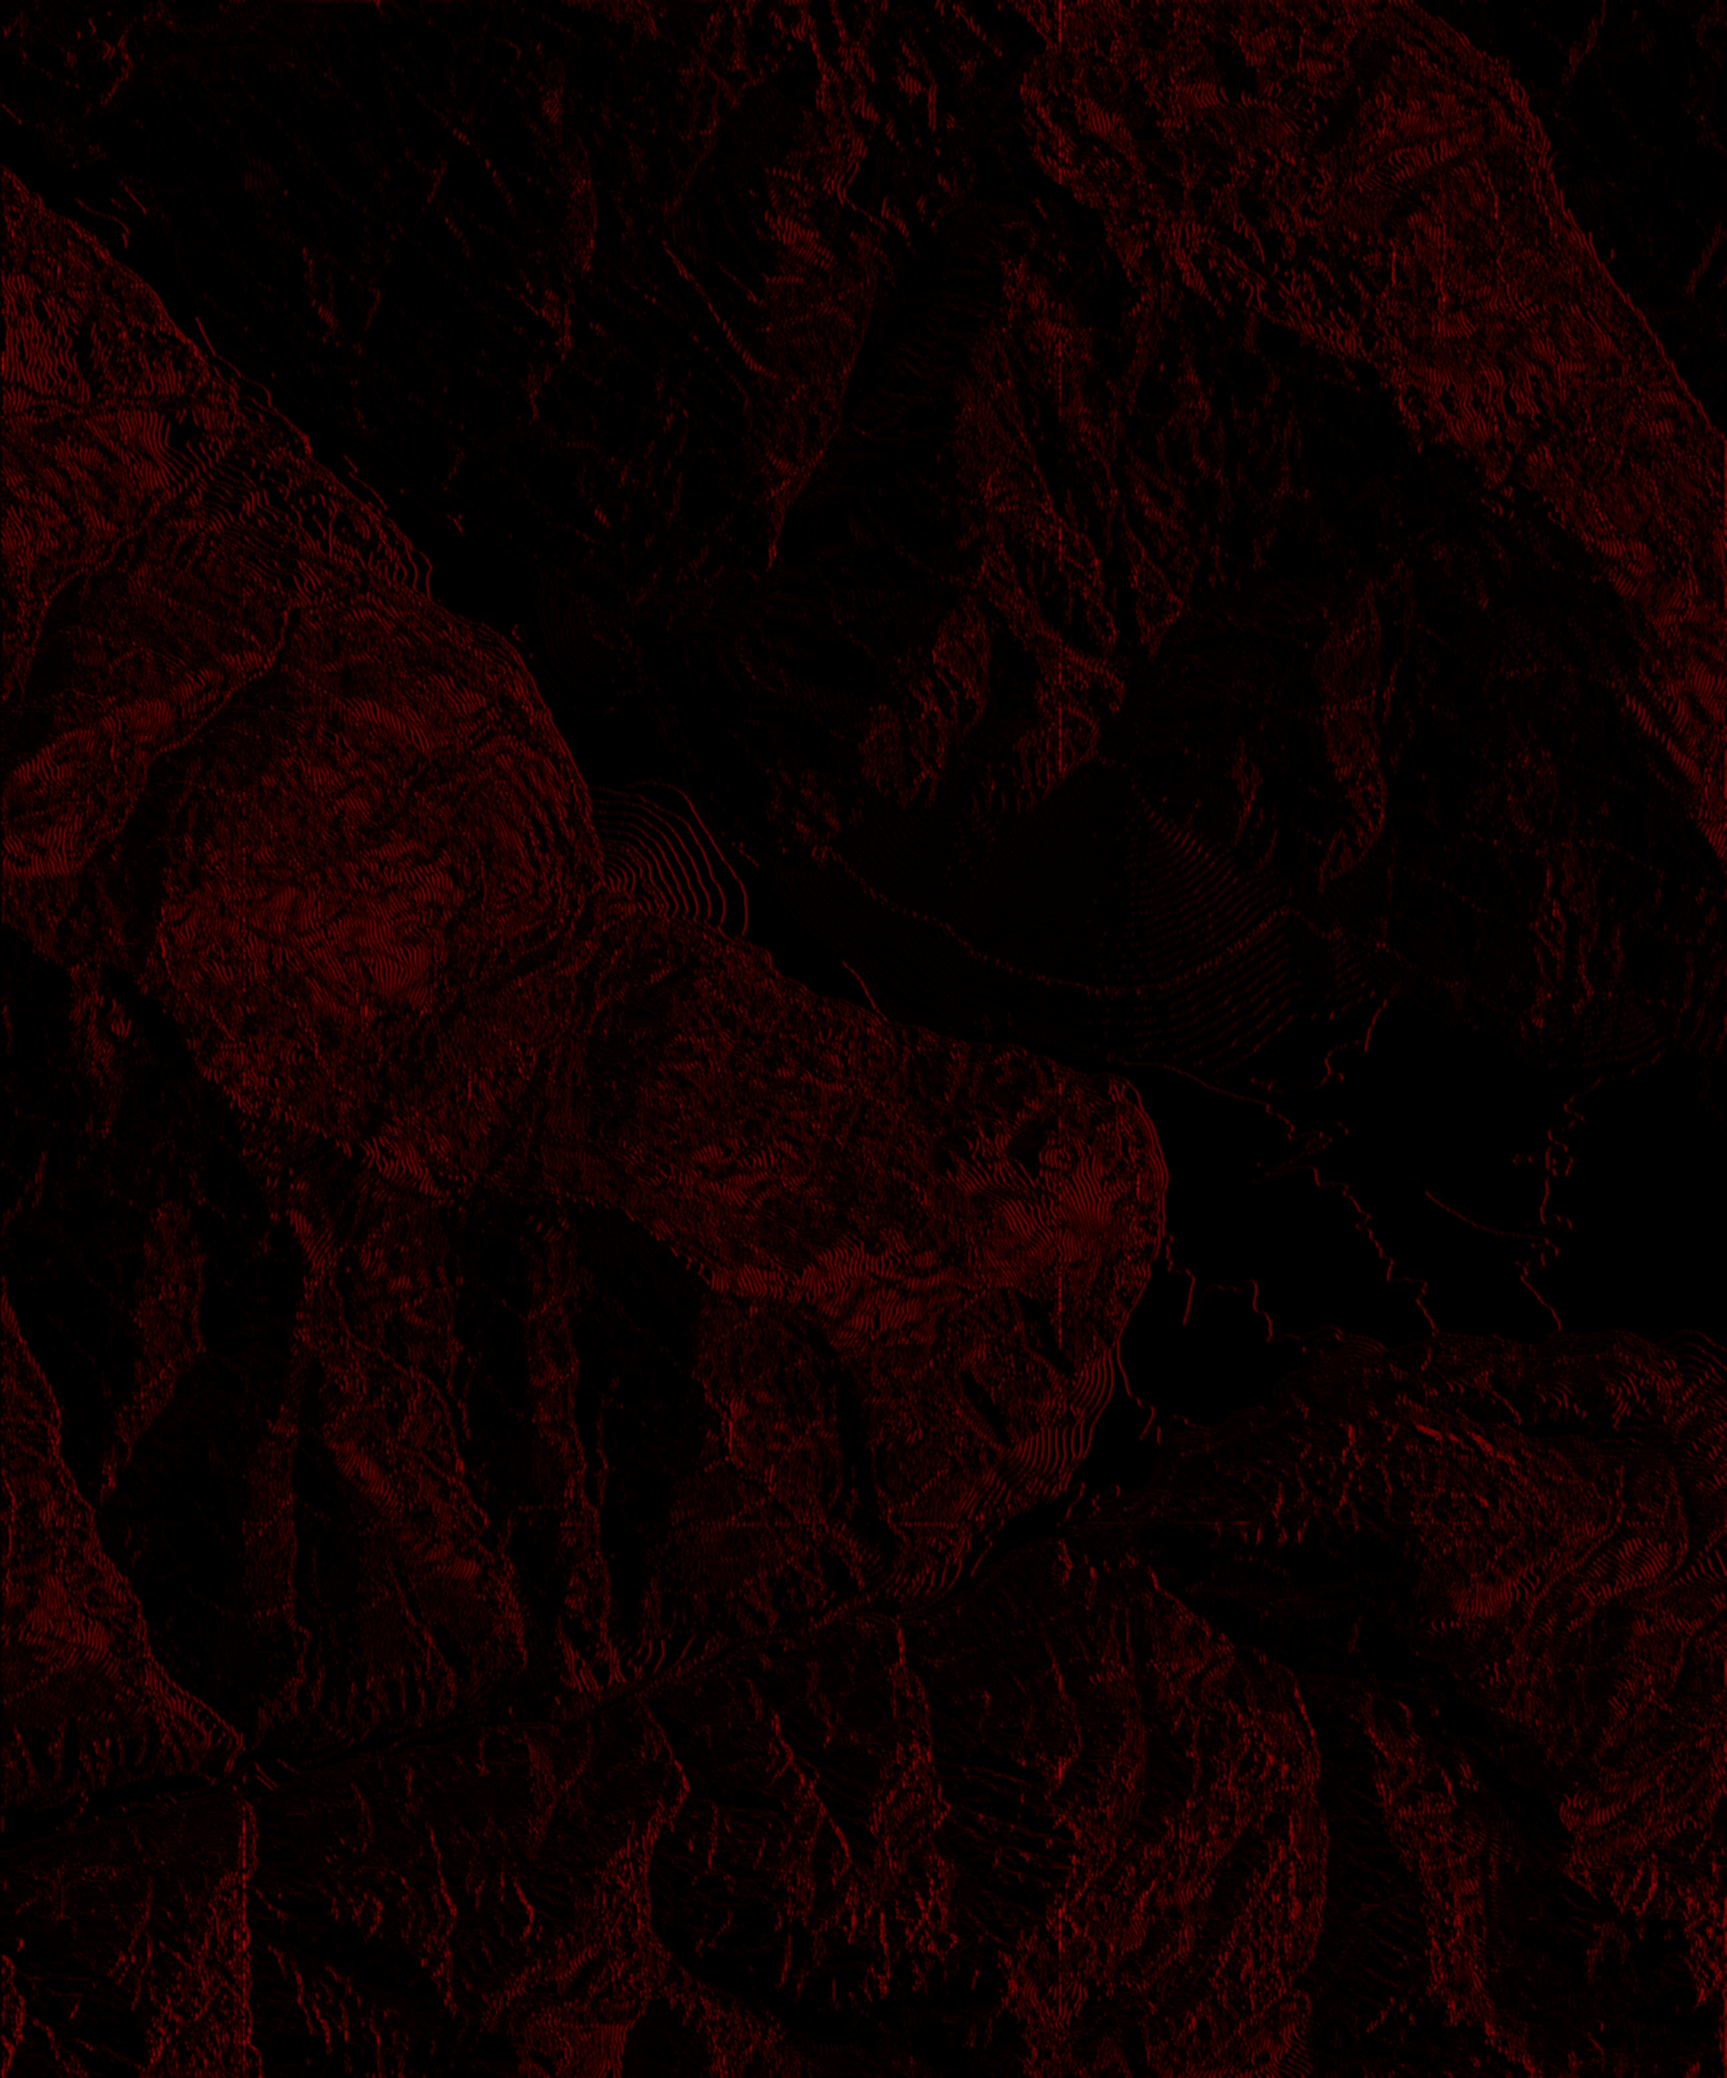
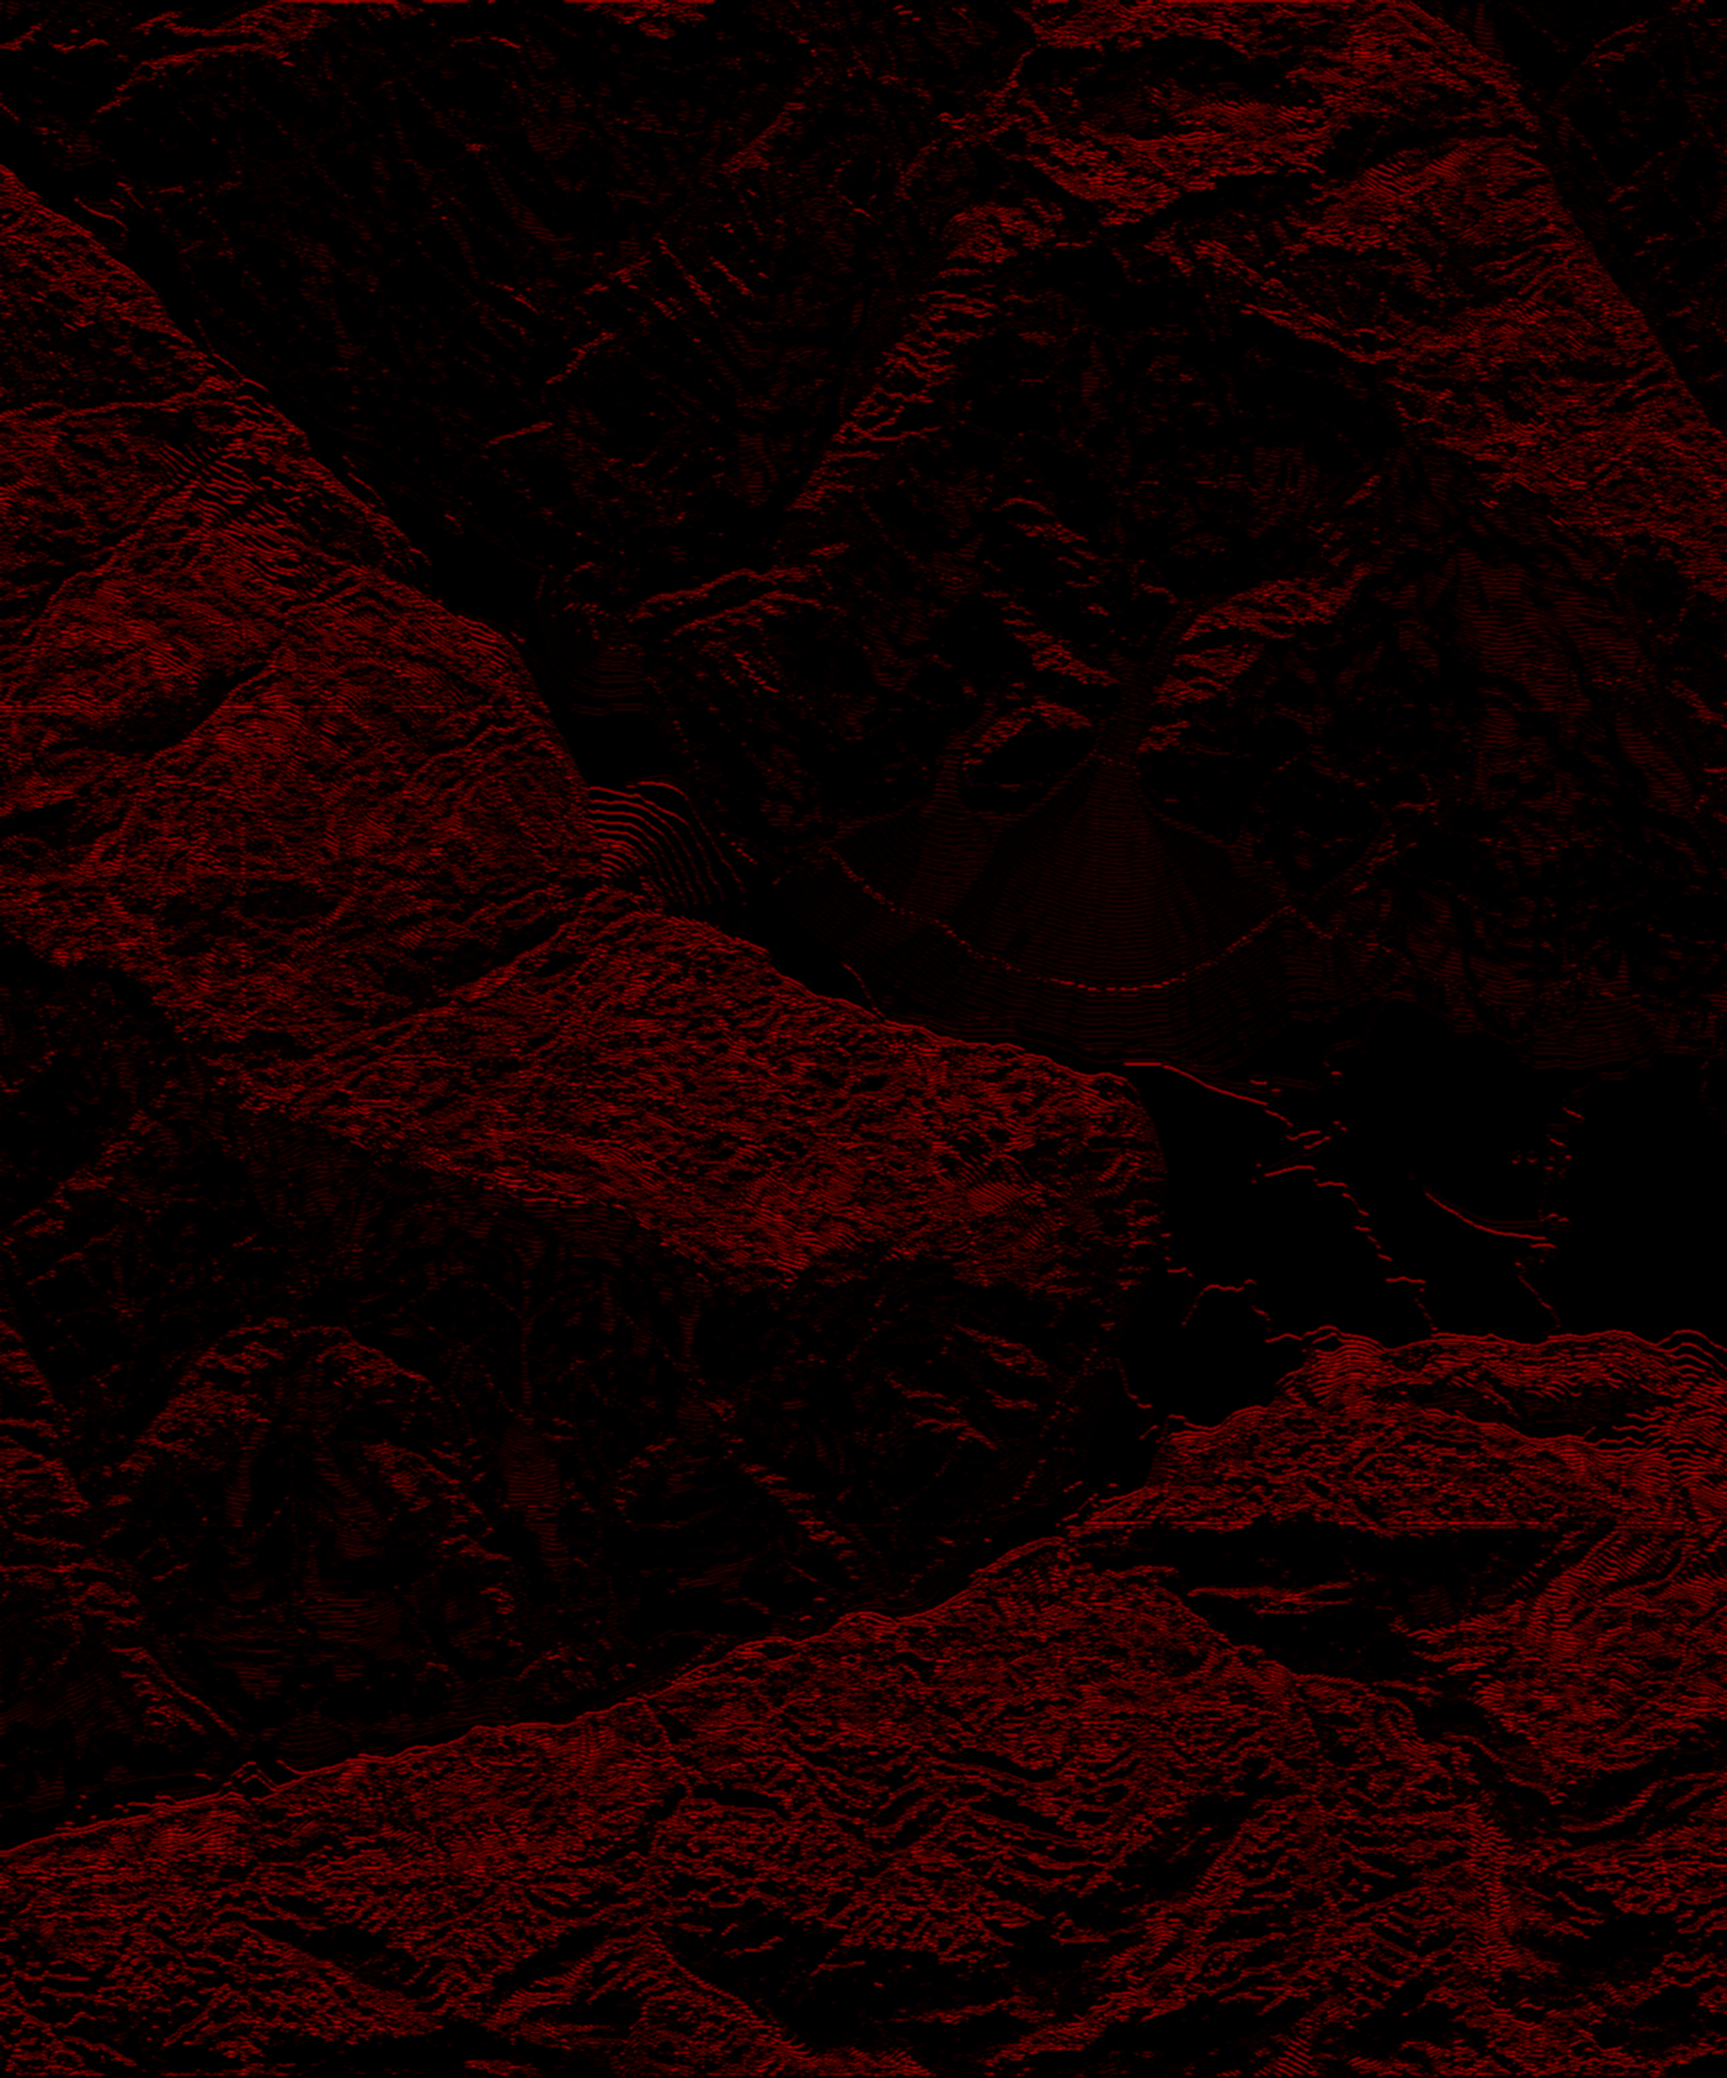
more images

diff --git a/Master Program/img processing and path planning/b_filtering.py b/Master Program/img processing and path planning/b_filtering.py
@@ -94,11 +94,17 @@ def apply_ridge_filters(path_to_img, direction, output_file):
 
     output = image
 
+    #cv2.imwrite("img_step_1.png", output)
     output = sharpen_filter(output)
+    #cv2.imwrite("img_step_2.png", output)
     output = ridge_filter(output, direction)
+    #cv2.imwrite("img_step_3.png", output)
     output = ridge_filter(output, direction)
+    #cv2.imwrite("img_step_4.png", output)
     output = sharpen_less_filter(output)
+    #cv2.imwrite("img_step_5.png", output)
     output = blur_filter(output)
+    #cv2.imwrite("img_step_6.png", output)
 
     #output = sobel_y(output)
 

diff --git a/Master Program/img processing and path planning/img_processing_script.py b/Master Program/img processing and path planning/img_processing_script.py
@@ -5,7 +5,7 @@ import d_pathplanning as pathplan
 
 image_source = "render-5.png"
 threshold = 70
-direction = 45
+direction = 0
 
 def map_creation(image_source, threshold, direction):
     setup.setup_image(image_source, threshold, direction)
